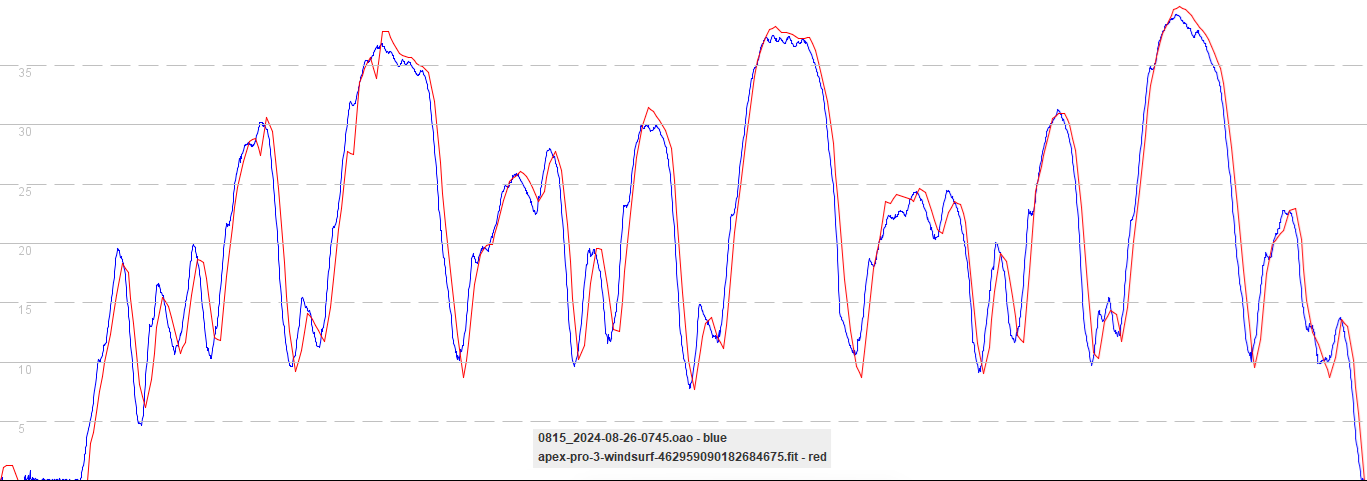
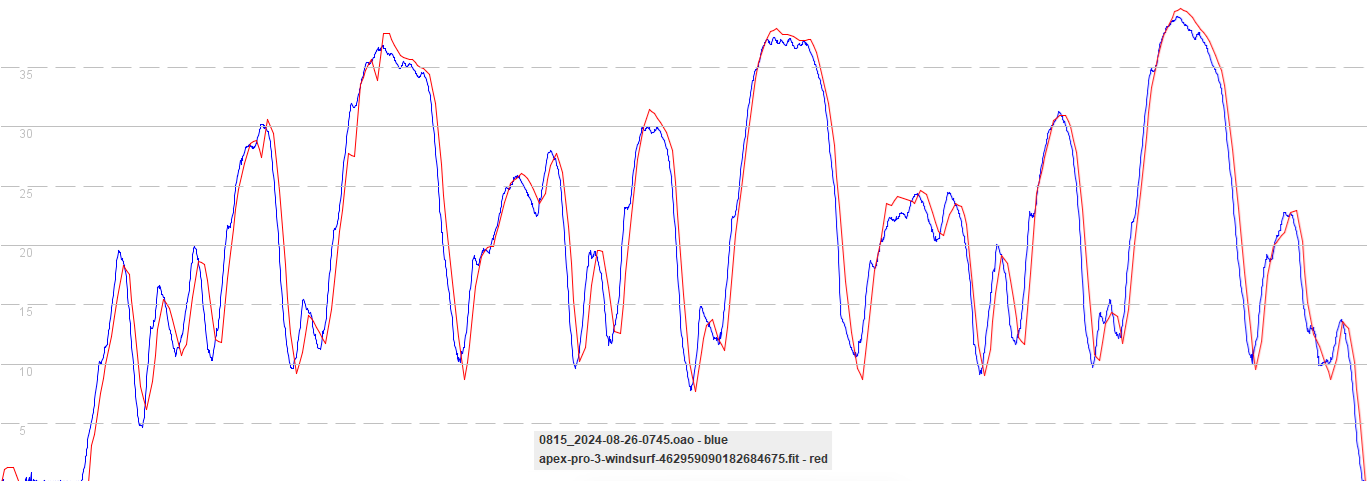
Further tweaks and refinements to speedsurfing vs windsurfing

diff --git a/docs/devices/coros/windsurfing/speedsurfing-airoha/README.md b/docs/devices/coros/windsurfing/speedsurfing-airoha/README.md
@@ -16,32 +16,48 @@ The Garmin Forerunner 255 performed almost identically, since both the COROS and
 
 #### 3.0408.0
 
-Firmware 3.0408.0 introduced a problem which is believed to be caused by one or more [settings](../smoothing/update.md) of the Airoha GNSS chipset.
+Firmware 3.0408.0 introduced a problem which is believed to be caused by one or more [settings](../../smoothing/update.md) of the Airoha AG3335M chipset.
 
 Excessive filtering / smoothing and sharp dips during periods of acceleration are evident in data from the APEX 2 Pro (red).
 
 ![v-3-0408-0-van](img/v-3-0408-0-van.png)
 
-Note: Garmin watches that use the Airoha AG3335M (e.g. Fenix 7 and Forerunner 255) had exactly the same issue in 2022.
+Notes
+
+- Garmin watches that use the Airoha AG3335M (e.g. Fenix 7 and Forerunner 255) had exactly the same issue in 2022.
+- Thoughts and guidance regarding a resolution of the underlying issue in 3.0408.0 were [documented](../../smoothing/update.md) on 22 Aug 2024.
 
 
 
 #### 3.0508.0
 
-Firmware 3.0508.0 attempted to fix the 3.0408.0 issue, but subsequent analysis identified an issue with the fix - see 3.0510.0 (below).
+Firmware 3.0508.0 attempted to fix the issue in 3.0408.0. It was observed that speedsailing data from 3.0508.0 resembled the windsurfing mode.
 
-It is believed that the speeds in 3.0508.0 are derived from positional data, quite possibly after some filtering / smoothing.
+The significance of these issues only became fully apparent after the release of 3.0508.0 for the APEX Pro / VERTIX - see 3.0510.0 (below).
+
+It is believed that the speeds in 3.0508.0 were being derived from positional data, quite possibly after some upfront filtering / smoothing.
 
 
 
 #### 3.0510.0
 
-The COROS APEX 2 Pro loses a lot of the finer details, presumably due to filtering / smoothing introduced in 3.0508.0.
+The COROS APEX 2 Pro loses a lot of the subtle details in 3.0308.0, presumed to be due to the filtering / smoothing introduced in 3.0508.0.
 
 ![v-3-0510-0-coros](img/v-3-0510-0-coros.png)
 
-The Garmin Forerunner 255 continues to faithfully capture the dynamics of a short test drive.
+The Garmin Forerunner 255 faithfully captures the dynamics of the same short test drive.
 
 ![v-3-0510-0-garmin](img/v-3-0510-0-garmin.png)
 
-Comparing the above images it is quite clear that the APEX 2 Pro and Forerunner 255 are behaving quite differently, with the Garmin being far more suitable for speedsurfing and windsurfing.
+Comparing the above images it is quite clear that the APEX 2 Pro and Forerunner 255 are now behaving quite differently, with the Garmin being far more suitable for speedsurfing and windsurfing.
+
+
+
+### Outstanding Issue
+
+Due to the observations for the APEX Pro and VERTIX it is believed that the APEX 2 / APEX 2 Pro / VERTIX 2 / VERTIX 2S are also using non-Doppler speeds. The suspicion is that positional data is being filtered / smoothed to calculate speeds, instead of using the speed data from the Airoha chipset.
+
+It should also be noted that GP3S are starting to observe more spikes being posted from the APEX 2 Pro and VERTIX 2. These issues are consistent with what would be expected when calculating speeds using the positional data, instead of the Doppler-derived speeds.
+
+It would appear that the release of 3.0508.0 in July did not resolve the underlying issue, and was essentially a hack that calculates speeds using the positional data. Thoughts and guidance regarding a resolution of the underlying issue in 3.0408.0 were [documented](../../smoothing/update.md) on 22 Aug 2024.
+

diff --git a/docs/devices/coros/windsurfing/windsurfing-airoha/README.md b/docs/devices/coros/windsurfing/windsurfing-airoha/README.md
@@ -10,17 +10,18 @@ Test data is not available for windsurfing mode on the APEX 2 / APEX 2 Pro / VER
 
 #### 3.0510.0
 
-The COROS APEX 2 Pro loses a lot of the subtle details, presumably due to the filtering / smoothing of the windsurfing mode:
+The COROS APEX 2 Pro loses a lot of the subtle details relating to speed, presumably due to the filtering / smoothing that is implemented:
 
 ![v-3-0510-0-apex-2-pro-wsurf](img/v-3-0510-0-apex-2-pro-wsurf.png)
 
-The Garmin Forerunner 255 faithfully captures the dynamics of this same test drive, with subtle variations being no greater than 2 motions:
+The Garmin Forerunner 255 faithfully captures the dynamics of the test drive, with subtle variations being no greater than two motions:
 
 ![v-3-0510-0-fr-255-wsurf](img/v-3-0510-0-fr-255-wsurf.png)
 
-GP3S have observed that accuracy issues / spikes are far more prevalent on the APEX 2 Pro and VERTIX 2 when using windsurfing mode.
 
-This is almost certainly due to the use of positional data for speeds, rather than the Doppler-derived speeds of the Airoha chipset.
 
-This is undesirable because people within the wider community also use the windsurfing mode, prone to inaccuracies and spikes.
+### Outstanding Issue
 
+GP3S have observed that accuracy issues / spikes are far more prevalent on the APEX 2 Pro / VERTIX 2 when using windsurfing mode. This is almost certainly due to the use of positional data for speeds, rather than the Doppler-derived speeds of the Airoha chipset. This behavior is somewhat undesirable because people within the wider community also use the windsurfing mode, prone to inaccuracies and spikes.
+
+Our suggestion / preference would be for the windsurfing mode to process GNSS data in exactly the same way as the speedsurfing mode, once fixed.

diff --git a/docs/devices/coros/windsurfing/speedsurfing-sony/README.md b/docs/devices/coros/windsurfing/speedsurfing-sony/README.md
@@ -34,7 +34,7 @@ Expectations:
 
 The COROS APEX Pro (red) appears to be using the positional data for speeds, exhibiting spikes in the maximum speeds.
 
-This is the non-Doppler issue that was reported in mid-August 2024.
+This is the non-Doppler issue that was reported to the contacts within COROS on 19 Aug 2024.
 
 ![v-3-0508-0-apex-pro-ssurf](img/v-3-0508-0-apex-pro-ssurf.png)
 
@@ -43,4 +43,14 @@ The Garmin vivoactive 4 (red) is capturing the speed data from the Sony GNSS chi
 The Garmin is working as well as can be expected for a watch using the Sony GNSS chipset, noting the propensity for repeated speeds / flat spots.
 
 ![v-3-0508-0-va-4-ssurf](img/v-3-0508-0-va-4-ssurf.png)
+
+
+
+### Outstanding Issue
+
+Due to the observations shown above it is believed that the APEX Pro and VERTIX are using non-Doppler speeds. The suspicion is that positional data is being used to calculate speeds, instead of using the speed data from the Sony chipset.
+
+It should also be noted that GP3S observe more spikes being posted from the APEX Pro and VERTIX when using speedsurfing mode. These issues are consistent with what would be expected when calculating speeds using the positional data, instead of the Doppler-derived speeds.
+
+It would appear that the release of 3.0508.0 in July did not resolve the Airoha-related issue, but instead introduced an even worse problem affecting the APEX Pro and VERTIX. Thoughts and guidance regarding a resolution of the underlying issue in 3.0408.0 were [documented](../../smoothing/update.md) on 22 Aug 2024.
 

diff --git a/docs/devices/coros/windsurfing/windsurfing-sony/README.md b/docs/devices/coros/windsurfing/windsurfing-sony/README.md
@@ -10,7 +10,7 @@ This is undesirable because people within the wider community also use the winds
 
 ![v-3-05-0-apex-pro-wsurf](img/v-3-05-0-apex-pro-wsurf.png)
 
-The Garmin vivoactive 4 (red) is capturing the speed data from the Sony GNSS chipset, and there are no spikes present.
+The Garmin vivoactive 4 (red) is capturing the speed data from the Sony GNSS chipset, and there are no spikes present during this test.
 
 The Garmin is working as well as can be expected for a watch using the Sony GNSS chipset, noting the propensity for repeated speeds / flat spots.
 
@@ -44,3 +44,10 @@ The Garmin is working as well as can be expected for a watch using the Sony GNSS
 
 ![v-3-0508-0-va-4-wsurf](img/v-3-0508-0-va-4-wsurf.png)
 
+
+
+### Outstanding Issue
+
+GP3S have observed that accuracy issues / spikes are far more prevalent on the APEX Pro / VERTIX when using windsurfing mode. This is almost certainly due to the use of positional data for speeds, rather than the Doppler-derived speeds of the Sony chipset. This behavior is somewhat undesirable because people within the wider community also use the windsurfing mode, prone to inaccuracies and spikes.
+
+Our suggestion / preference would be for the windsurfing mode to process GNSS data in exactly the same way as the speedsurfing mode, once fixed.

diff --git a/docs/devices/coros/windsurfing/README.md b/docs/devices/coros/windsurfing/README.md
@@ -4,9 +4,9 @@
 
 This article attempts to clearly show the differences between speedsurfing and windsurfing modes on COROS watches.
 
-Various different firmware versions are used to illustrate the problems in 3.0408.0, 3.0508.0, and 3.0410.0.
+Various different firmware versions are used to illustrate the problems in 3.0408.0, 3.0409.0, 3.0508.0, and 3.0510.0.
 
-All of the examples use data gathered whilst driving around a short circuit; 3 laps with total distance of 5 km.
+All of the examples use data gathered whilst driving around a short test circuit; 3 laps with total distance of 5 km.
 
 ![circuit](img/circuit.jpg)
 
